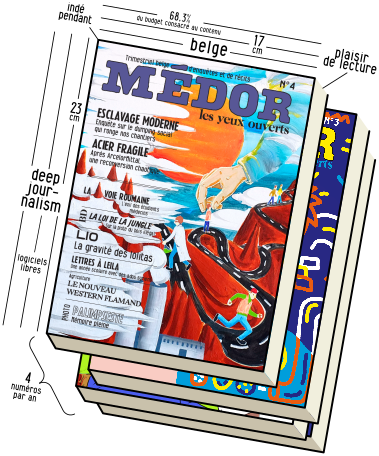
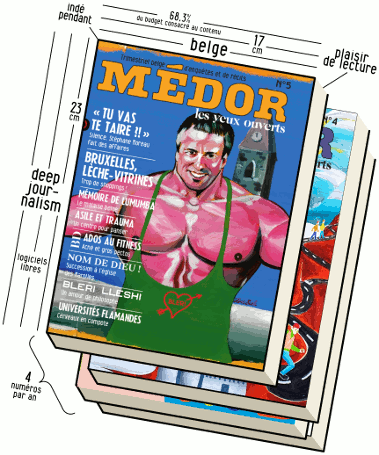
medor 5 sur la home

diff --git a/medor/templates/feed.html b/medor/templates/feed.html
@@ -30,8 +30,8 @@
 
 
     <div class="sidebar">
-            <a href="{% url 'issue-detail-site' '16-automne' %}"><img src="{{ STATIC_URL }}img/pile-de-medors-1-2-3-4.png"></a>
-            <p>Médor N<sup>0</sup>4 sort! Découvrez <a href="{% url 'issue-detail-site' '16-automne' %}">son sommaire</a> et gardez les yeux ouverts en l’achetant en <a href="{% page_url 'acheter' %}">librairie</a> ou en prenant un <a href="{% url 'subscribe-wizard' %}">abonnement pour un ou deux ans</a>.</p>
+            <a href="{% url 'issue-detail-site' '16-17-hiver' %}"><img src="{{ STATIC_URL }}img/pile-de-medors-1-2-3-4.png"></a>
+            <p>Médor N<sup>0</sup>5 sort! Découvrez <a href="{% url 'issue-detail-site' '16-17-hiver' %}">son sommaire</a> et gardez les yeux ouverts en l’achetant en <a href="{% page_url 'acheter' %}">librairie</a> ou en prenant un <a href="{% url 'subscribe-wizard' %}">abonnement pour un ou deux ans</a>.</p>
     </div>
 
 
